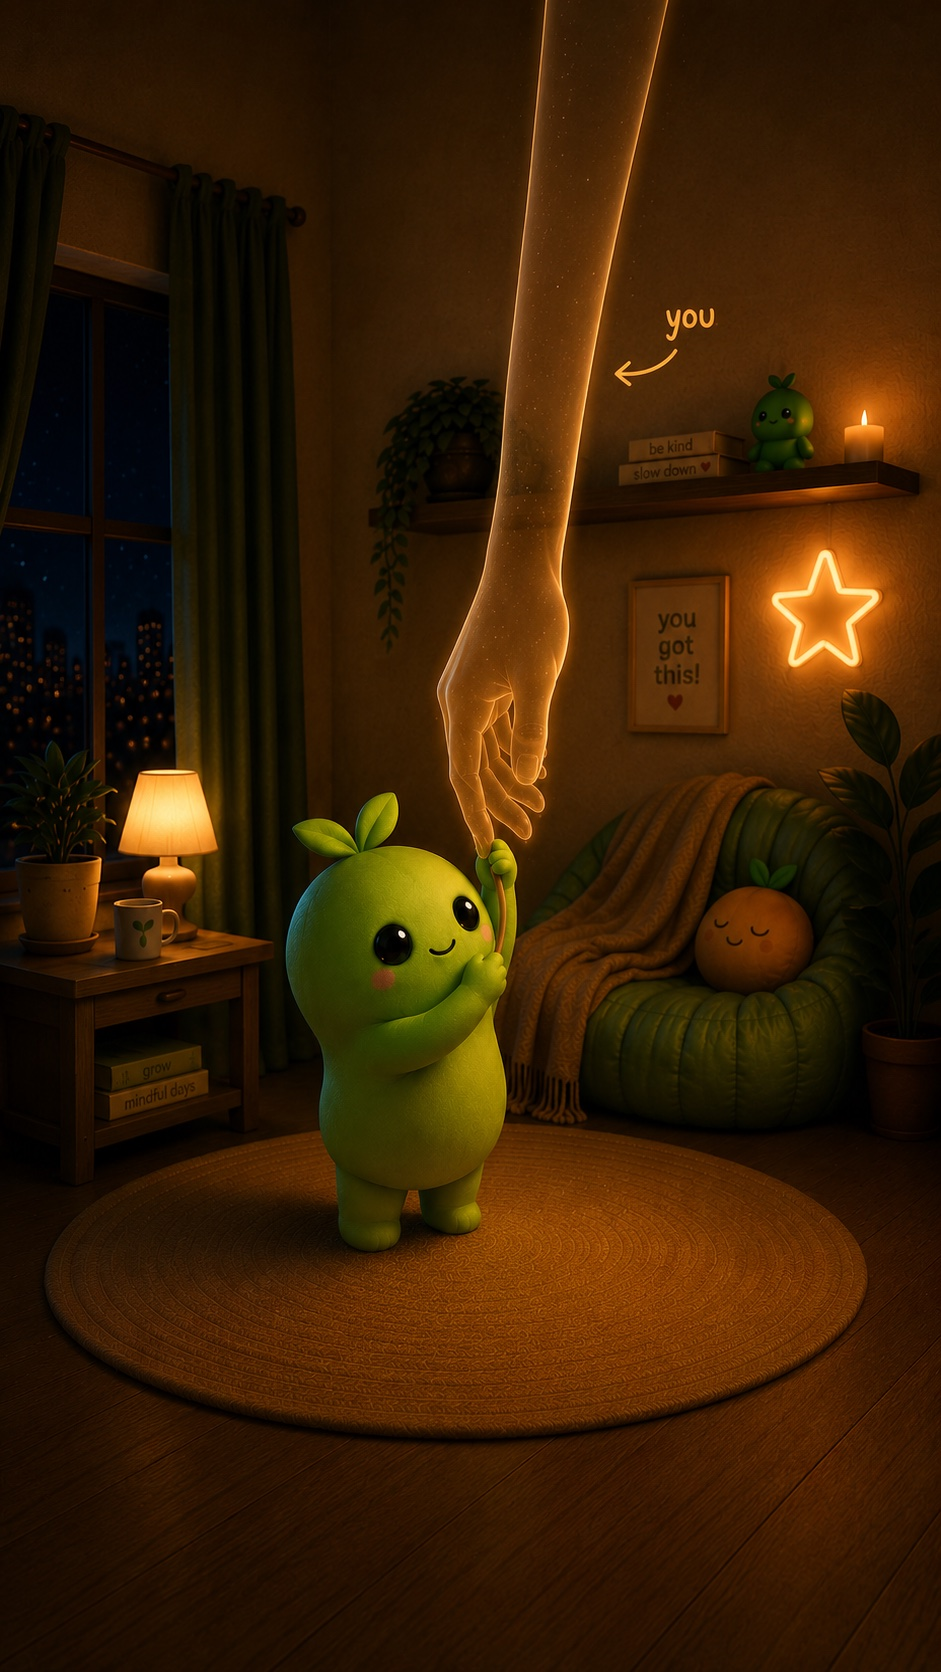
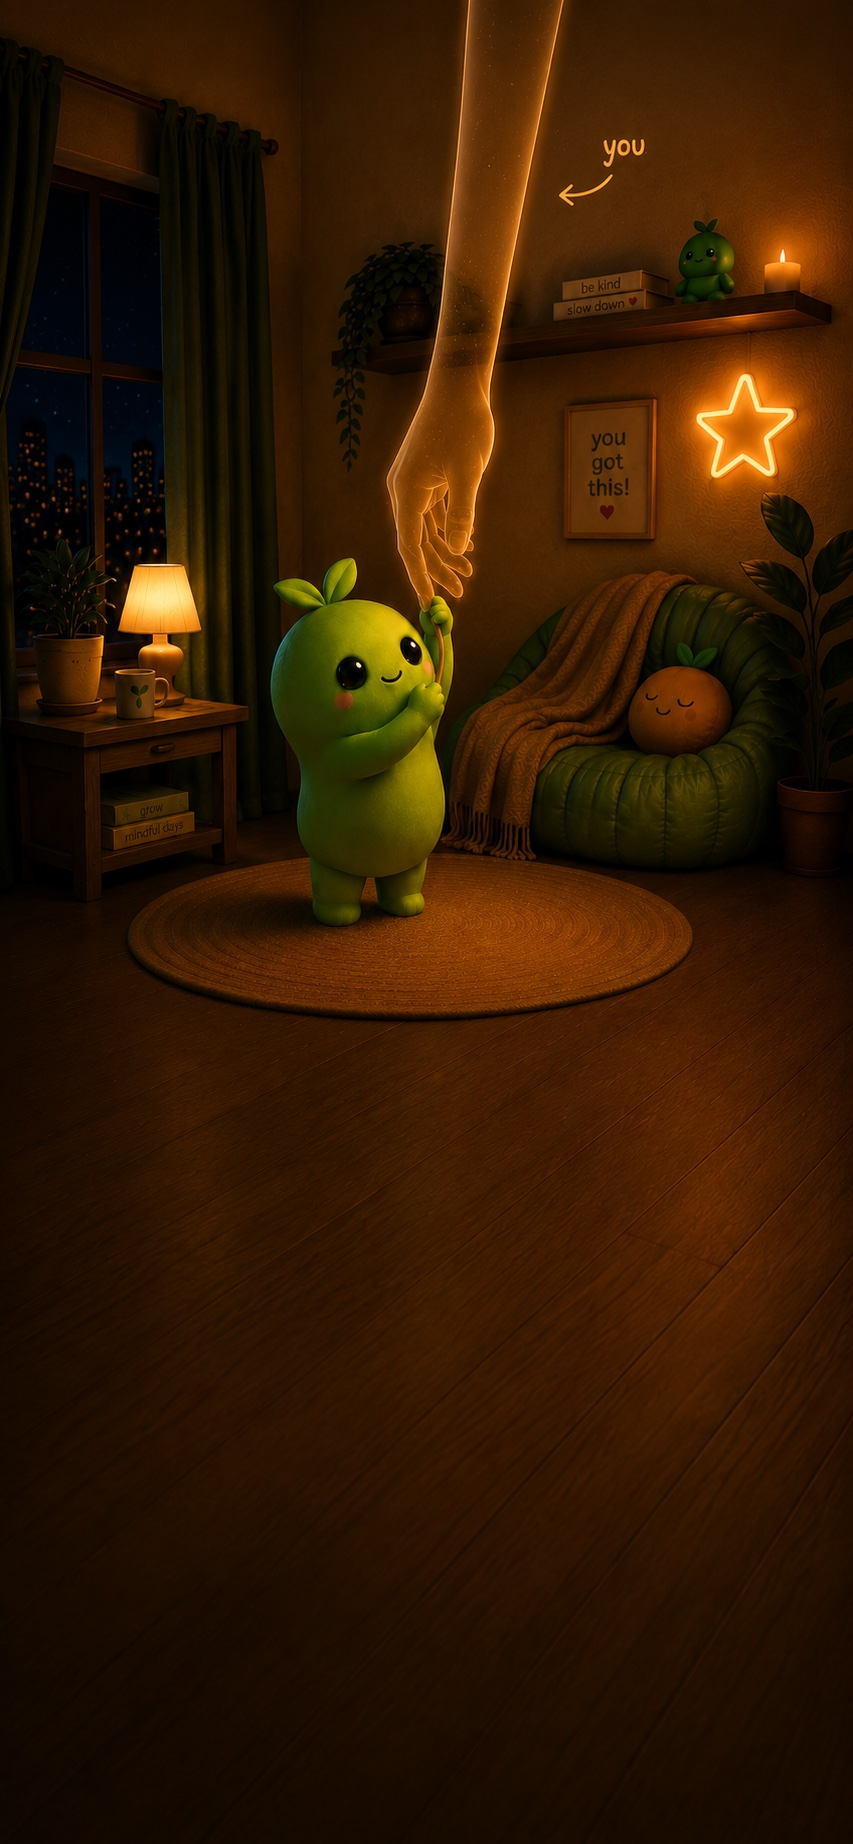
Onboarding: new art with more floor space; top-aligned so text clears Bixi
Swap in the updated onboarding images (one-hand → two-hands → tucked-in),
top-anchored so the slide copy sits over the empty floor. Copy reordered to
match: Meet Bixi → One pet, two of you → Cared for, always.

diff --git a/mobile/src/app/onboarding/intro.tsx b/mobile/src/app/onboarding/intro.tsx
@@ -13,8 +13,8 @@ const CREAM = '#f5efe3';
 const ACCENT = '#f0895f';
 
 const SLIDES = [
-  { img: require('../../../assets/images/onboard1.jpg'), title: 'One pet,\ntwo of you', body: 'Bixi blooms when you both show up — and won’t make it without you both.' },
-  { img: require('../../../assets/images/onboard2.jpg'), title: 'Show up,\nhe thrives', body: 'Feed him, water him, love him. Just a moment a day.' },
+  { img: require('../../../assets/images/onboard1.jpg'), title: 'Meet Bixi', body: 'A tiny creature who lives in your pocket — and quietly needs you.' },
+  { img: require('../../../assets/images/onboard2.jpg'), title: 'One pet,\ntwo of you', body: 'Bixi blooms when you both show up — and won’t make it without you both.' },
   { img: require('../../../assets/images/onboard3.jpg'), title: 'Cared for,\nalways', body: 'Even on the quiet days, he’s tucked in and waiting for you.' },
 ];
 
@@ -27,7 +27,7 @@ export default function Intro() {
   const next = () => (last ? done() : setI(i + 1));
 
   return (
-    <ImageBackground source={slide.img} style={styles.root} contentFit="cover" contentPosition="center" transition={250}>
+    <ImageBackground source={slide.img} style={styles.root} contentFit="cover" contentPosition="top" transition={250}>
       <LinearGradient
         colors={['rgba(16,11,6,0.35)', 'rgba(16,11,6,0)', 'rgba(14,9,5,0.55)', 'rgba(11,7,4,0.97)']}
         locations={[0, 0.3, 0.62, 1]}
